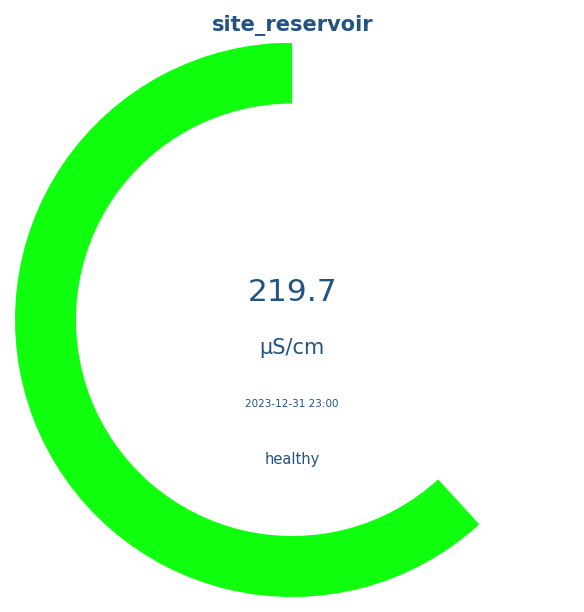
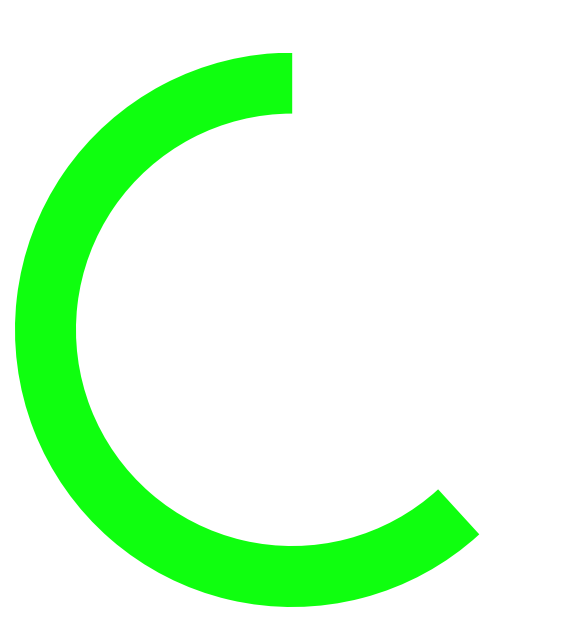
more fixes

diff --git a/project/app/src/main/resources/front-end/GuestDashboard.html b/project/app/src/main/resources/front-end/GuestDashboard.html
@@ -207,14 +207,20 @@
 <ul class="status-list" id="status-counts"></ul>
 </div>
 
-<div class="data-card"><h3>pH</h3><p id="ph-value" class="data-value"></p></div>
+<div class="data-card">
+    <h3>pH</h3>
+    <img id="ph-img" src="" style="width: 200px; display: block; margin: 0 auto;"></img></div>
 
 <div class="data-card">
     <h3>Conductivity</h3>
-    <img id="conductivity-img" src="" width="100%" sytle="border-radius: 8px:"></img></div>
+    <img id="conductivity-img" src="" style="width: 200px; display: block; margin: 0 auto;"></img></div>
 
 <div class="data-card"><h3>Turbidity</h3><p id="turbidity-value" class="data-value"></p></div>
-<div class="data-card"><h3>Light</h3><p id="light-value" class="data-value"></p></div>
+
+<div class="data-card">
+    <h3>Light</h3>
+    <img id="lightIntensity-img" src="" style="width: 200px; display: block; margin: 0 auto;"></img></div>
+
 <div class="data-card"><h3>Water Level</h3><p id="water-level-value" class="data-value"></p></div>
 <div class="data-card"><h3>Temperature</h3><p id="water-temp-value" class="data-value"></p></div>
 
@@ -252,9 +258,7 @@ async function loadLatest(){
     const res=await fetch(`/latest/${site}`)
     const d=await res.json()
 
-    updateWithFade("ph-value",d.ph+" pH")
     updateWithFade("turbidity-value",d.turbidityNtu+" NTU")
-    updateWithFade("light-value",d.lightLux+" lux")
     updateWithFade("water-level-value",d.waterLevelCm+" cm")
     updateWithFade("water-temp-value",d.waterTemperatureC+" °C")
 
@@ -284,12 +288,17 @@ async function loadStatus(){
 const select=document.getElementById("site-select")
 select.value=getSavedSite()
 updateConductivityImage(select.value)
+updatepHImage(select.value)
+updateLightImage(select.value)
 
 select.addEventListener("change",()=>{
     setSavedSite(select.value)
     loadLatest()
     updateTimestamp()
     updateConductivityImage(select.value)
+    updatepHImage(select.value)
+    updateLightImage(select.value)
+
 })
 
 function refresh(){
@@ -302,8 +311,18 @@ function refresh(){
 function updateConductivityImage(site) {
     const img = document.getElementById("conductivity-img")
     img.src = `outputs/conductivity_${site}.png`
-    console.log("loading image:, img.src")
 }
+
+function updatepHImage(site) {
+    const img = document.getElementById("ph-img")
+    img.src = `outputs/pH_${site}.png`
+}
+
+function updateLightImage(site) {
+    const img = document.getElementById("lightIntensity-img")
+    img.src = `outputs/lightIntensity_${site}.png`
+}
+
 
 refresh()
 setInterval(refresh,15000)

diff --git a/datasets/datasets/synthetic_outputs/conductivityPlotting.py b/datasets/datasets/synthetic_outputs/conductivityPlotting.py
@@ -39,8 +39,8 @@ def ring_creation(axes, value, min_value, max_value, site_id, timestampStr):
     axes.add_patch(ring)
     
     #readings in the centre of the circle
-    axes.text(0.5, 0.55, f"{value}", ha = 'center', va = 'center', fontsize = 15, color = "#225382") # note change back to white
-    axes.text(0.5,0.45,"µS/cm", ha = 'center', va = 'center', fontsize = 10, color = "#225382")
+    axes.text(0.5, 0.55, f"{value}", ha = 'center', va = 'center', fontsize = 28, color = "#FFFFFF") # note change back to white
+    axes.text(0.5,0.45,"µS/cm", ha = 'center', va = 'center', fontsize = 18, color = "#FFFFFF")
 
     # status
     if value > 500:
@@ -49,12 +49,12 @@ def ring_creation(axes, value, min_value, max_value, site_id, timestampStr):
         status = "moderate"
     else:
         status = "healthy"
-    axes.text(0.5,0.25,status,ha = 'center', va = 'center', fontsize = 7, color = "#225382") # note change back to white this is just for testing
+    axes.text(0.5,0.25,status,ha = 'center', va = 'center', fontsize = 14, color = "#FFFFFF") # note change back to white this is just for testing
 
     #site title
-    axes.set_title(site_id, fontsize=10, color="#225382", fontweight = 'bold') #make white later
+    axes.set_title(site_id, fontsize=16, color="#FFFFFF", fontweight = 'bold') #make white later
     #timestamp 
-    axes.text(0.5, 0.35, timestampStr, ha='center', va='center', fontsize=5, color= "#225382")
+    axes.text(0.5, 0.35, timestampStr, ha='center', va='center', fontsize=14, color= "#FFFFFF")
         
 
     # organising data
@@ -82,8 +82,10 @@ def plot_recent_reading(df: pd.DataFrame, output_dir: str):
         fig, ax = plt.subplots(1, 1)
         ring_creation(ax, values[i], min_val, max_val, site_ids[i], timestampStr)
 
+        fig.patch.set_alpha(0)
+        ax.patch.set_alpha(0)
         out_path = os.path.join(output_dir, f"conductivity_{site_ids[i]}.png")
-        fig.savefig(out_path, dpi=150, bbox_inches='tight')
+        fig.savefig(out_path, dpi=150, bbox_inches='tight', transparent=True)
         plt.close(fig)  #Free memory important when generating many plots in one run
         print(f"Saved: {out_path}")
 

diff --git a/datasets/datasets/synthetic_outputs/lightIntensityPlotting.py b/datasets/datasets/synthetic_outputs/lightIntensityPlotting.py
@@ -39,8 +39,8 @@ def ring_creation(axes, value, min_value, max_value, site_id, timestampStr): # w
     axes.add_patch(ring)
     
     #readings in the centre of the circle
-    axes.text(0.5, 0.55, f"{value}", ha = 'center', va = 'center', fontsize = 15, color = "#225382") # note change back to white
-    axes.text(0.5,0.45,"lux", ha = 'center', va = 'center', fontsize = 10, color = "#225382")
+    axes.text(0.5, 0.55, f"{value}", ha = 'center', va = 'center', fontsize = 28, color = "#FFFFFF") # note change back to white
+    axes.text(0.5,0.45,"lux", ha = 'center', va = 'center', fontsize = 18, color = "#FFFFFF")
 
     # status
     if value  > 65000:
@@ -50,12 +50,12 @@ def ring_creation(axes, value, min_value, max_value, site_id, timestampStr): # w
     elif value<=25000 and value>=0:
         status = 'healthy'
 
-    axes.text(0.5,0.25,status,ha = 'center', va = 'center', fontsize = 7, color = "#225382") # note change back to white this is just for testing
+    axes.text(0.5,0.25,status,ha = 'center', va = 'center', fontsize = 14, color = "#FFFFFF") # note change back to white this is just for testing
 
     #site title
-    axes.set_title(site_id, fontsize=10, color="#225382", fontweight = 'bold') #make white later
+    axes.set_title(site_id, fontsize=16, color="#FFFFFF", fontweight = 'bold') #make white later
     #timestamp 
-    axes.text(0.5, 0.35, timestampStr, ha='center', va='center', fontsize=5, color= "#225382")
+    axes.text(0.5, 0.35, timestampStr, ha='center', va='center', fontsize=14, color= "#FFFFFF")
         
 
     # organising data
@@ -83,8 +83,10 @@ def plot_recent_reading(df: pd.DataFrame, output_dir: str):
         fig, ax = plt.subplots(1, 1)
         ring_creation(ax, values[i], min_val, max_val, site_ids[i], timestampStr)
 
+        fig.patch.set_alpha(0)
+        ax.patch.set_alpha(0)
         out_path = os.path.join(output_dir, f"lightIntensity_{site_ids[i]}.png")
-        fig.savefig(out_path, dpi=150, bbox_inches='tight')
+        fig.savefig(out_path, dpi=150, bbox_inches='tight', transparent=True)
         plt.close(fig)  #Free memory important when generating many plots in one run
         print(f"Saved: {out_path}")
 

diff --git a/datasets/datasets/synthetic_outputs/pHPlotting.py b/datasets/datasets/synthetic_outputs/pHPlotting.py
@@ -39,8 +39,8 @@ def ring_creation(axes, value, min_value, max_value, site_id, timestampStr):
     axes.add_patch(ring)
     
     #readings in the centre of the circle
-    axes.text(0.5, 0.55, f"{value}", ha = 'center', va = 'center', fontsize = 15, color = "#225382") # note change back to white
-    axes.text(0.5,0.45,"pH units", ha = 'center', va = 'center', fontsize = 10, color = "#225382")
+    axes.text(0.5, 0.55, f"{value}", ha = 'center', va = 'center', fontsize = 28, color = "#FFFFFF") # note change back to white
+    axes.text(0.5,0.45,"pH units", ha = 'center', va = 'center', fontsize = 18, color = "#FFFFFF")
 
     # status
     if value  > 9.0 or value <6.0:
@@ -49,12 +49,12 @@ def ring_creation(axes, value, min_value, max_value, site_id, timestampStr):
         status = 'healthy'
     else:
         status = 'moderate'
-    axes.text(0.5,0.25,status,ha = 'center', va = 'center', fontsize = 7, color = "#225382") # note change back to white this is just for testing
+    axes.text(0.5,0.25,status,ha = 'center', va = 'center', fontsize = 14, color = "#FFFFFF") # note change back to white this is just for testing
 
     #site title
-    axes.set_title(site_id, fontsize=10, color="#225382", fontweight = 'bold') #make white later
+    axes.set_title(site_id, fontsize=16, color="#FFFFFF", fontweight = 'bold') #make white later
     #timestamp 
-    axes.text(0.5, 0.35, timestampStr, ha='center', va='center', fontsize=5, color= "#225382")
+    axes.text(0.5, 0.35, timestampStr, ha='center', va='center', fontsize=14, color= "#FFFFFF")
         
 
     # organising data
@@ -82,8 +82,10 @@ def plot_recent_reading(df: pd.DataFrame, output_dir: str):
         fig, ax = plt.subplots(1, 1)
         ring_creation(ax, values[i], min_val, max_val, site_ids[i], timestampStr)
 
+        fig.patch.set_alpha(0)
+        ax.patch.set_alpha(0)
         out_path = os.path.join(output_dir, f"pH_{site_ids[i]}.png")
-        fig.savefig(out_path, dpi=150, bbox_inches='tight')
+        fig.savefig(out_path, dpi=150, bbox_inches='tight', transparent=True)
         plt.close(fig)  #Free memory important when generating many plots in one run
         print(f"Saved: {out_path}")
 